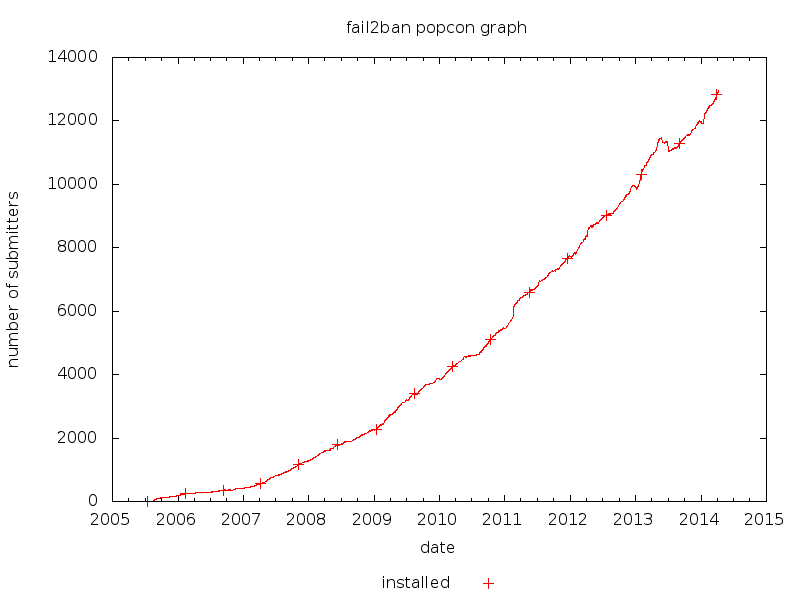
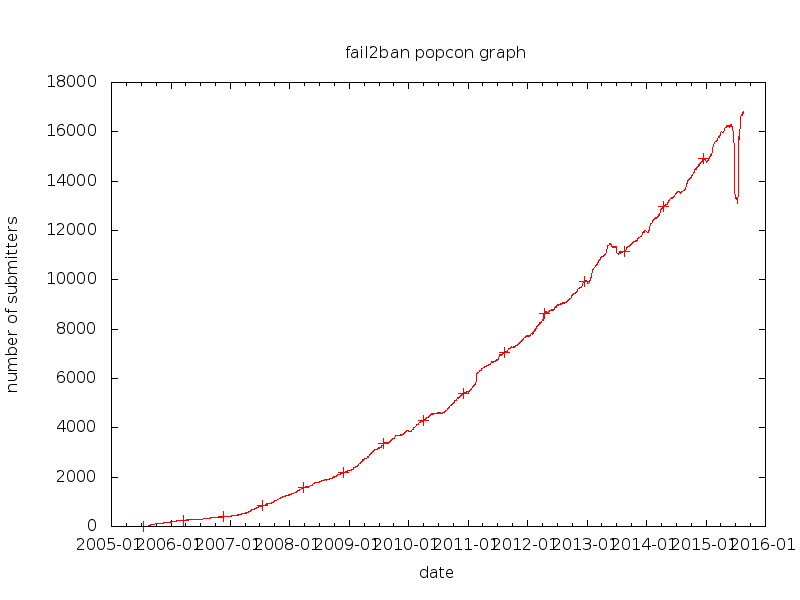
just a minor update with up to date stats

diff --git a/talks/debconf2015/s.tex b/talks/debconf2015/s.tex
@@ -4,7 +4,7 @@
 \usepackage{url}
 \usepackage{hyperref}
 \hypersetup{pdfsubject={Slides of the lightning talk about Fail2Ban
-    given at PyCon 2014},%
+    given at DebConf 2015},%
   pdftitle={Fail2Ban -- keep your boxes skiddie-free},%
   pdfauthor={Yaroslav O. Halchenko},
   pdfkeywords={Fail2Ban, security},%
@@ -25,12 +25,14 @@
 }
 
 \title[Fail2Ban]{Fail2Ban -- keep your boxes skiddie-free}
-\author[yoh AKA Yarik]{Yaroslav O. Halchenko
+\author[yoh AKA Yarik]{Yaroslav O. Halchenko\\
   \href{mailto: yoh@debian.org}{yoh@debian.org}}
-\institute[Dartmouth, (Neuro)Debian]{\href{http://www.dartmouth.edu}{Dartmouth College},
-\href{http://www.debian.org}{Debian Project}
+\institute[Dartmouth, (Neuro)Debian]{
+\href{http://centerforopenneuroscience.org}{Center for Open Neuroscience},
+\href{http://www.dartmouth.edu}{Dartmouth College},\\
+\href{http://www.debian.org}{Debian}/\href{http://neuro.debian.net}{NeuroDebian}
 }
-\date[PyCon 2014]{PyCon 2014, Montreal, Canada}
+\date[DebConf 2015]{DebConf 2015, Heidelberg, Germany}
 
 \urlstyle{same}
 
@@ -54,7 +56,8 @@
 \end{center}
 \end{frame}
 
-\begin{frame}{Who cares?}
+\begin{frame}{Who cares?(\only<1>{use your favorite
+      multiplier}\only<2>{go wild in your guestimate})}
 \begin{center}
 \only<1>{\includegraphics[width=\textwidth]{popcon-abs.png}}
 \only<2>{\includegraphics[width=\textwidth]{popcon-rel.png}}
@@ -132,8 +135,11 @@ Jun 2 16:47:48 i sshd[1]: Failed password for joe from 1.2.3.4 port 59926 ssh2
 \begin{Verbatim}[commandchars=\\\{\},fontsize=\scriptsize]
  --------------------- fail2ban-messages Begin ------------------------
 
- Banned services with Fail2Ban:                          Bans:Unbans
-    ssh:                                                    [  3:3  ]
+ Banned services with Fail2Ban:                          Bans:Unbans:Hits
+   apache-noscript:                                        [  0:0:2  ]
+   exim:                                                   [  1:1:7  ]
+   mybabeler-admin:                                        [  0:0:1  ]
+   sshd:                                                   [ 13:13:111]
 
  ---------------------- fail2ban-messages End -------------------------
 \end{Verbatim}
@@ -149,7 +155,7 @@ Jun 2 16:47:48 i sshd[1]: Failed password for joe from 1.2.3.4 port 59926 ssh2
 
 \begin{frame}[fragile]{1. Filter}
 
-\begin{block}{/etc/fail2ban/filters.d/sshd.conf}
+\begin{block}{/etc/fail2ban/filter.d/sshd.conf}
 {\scriptsize
 \begin{verbatim}
 [INCLUDES]
@@ -163,6 +169,8 @@ failregex = ^%(__prefix_line)s(?:error: PAM: )?[aA]uthentication
             ^%(__prefix_line)s(?:error: PAM: )?User not known to
              the underlying authentication module for .* from <HOST>\s*$
             ...
+
+journalmatch = _SYSTEMD_UNIT=sshd.service + _COMM=sshd
 \end{verbatim}
 }
 \end{block}
@@ -226,23 +234,27 @@ maxretry = 3
 \begin{frame}[fragile]{Filters}
 
 \begin{Verbatim}[fontsize=\scriptsize]
-> ls /etc/fail2ban/filter.d | sed -e 's,\.conf,,g'
-3proxy              dovecot        nginx-http-auth  sendmail-reject
-apache-auth         dropbear       nsd              sieve
-apache-badbots      ejabberd-auth  openwebmail      sogo-auth
-apache-botsearch    exim-common    pam-generic      solid-pop3d
-apache-common       exim-spam      perdition        squid
-apache-modsecurity  exim           php-url-fopen    squirrelmail
-apache-nohome       freeswitch     postfix-sasl     sshd-ddos
-apache-noscript     groupoffice    postfix          sshd
-apache-overflows    gssftpd        proftpd          stunnel
-assp                guacamole      pure-ftpd        suhosin
-asterisk            horde          qmail            tine20
-common              kerio          recidive         uwimap-auth
-counter-strike      lighttpd-auth  roundcube-auth   vsftpd
-courier-auth        mysqld-auth    selinux-common   webmin-auth
-courier-smtp        nagios         selinux-ssh      wuftpd
-cyrus-imap          named-refused  sendmail-auth    xinetd-fail
+> /bin/ls /etc/fail2ban/filter.d | sed -e 's,\.conf,,g' | column
+3proxy               directadmin    named-refused   sendmail-auth
+apache-auth          dovecot        nginx-botsearch sendmail-reject
+apache-badbots       dropbear       nginx-http-auth sieve
+apache-botsearch     drupal-auth    nsd             sogo-auth
+apache-common        ejabberd-auth  openwebmail     solid-pop3d
+apache-fakegooglebot exim-common    oracleims       squid
+apache-modsecurity   exim           pam-generic     squirrelmail
+apache-nohome        exim-spam      perdition       sshd
+apache-noscript      freeswitch     php-url-fopen   sshd-ddos
+apache-overflows     froxlor-auth   portsentry      stunnel
+apache-pass          groupoffice    postfix         suhosin
+apache-shellshock    gssftpd        postfix-rbl     tine20
+assp                 guacamole      postfix-sasl    uwimap-auth
+asterisk             horde          proftpd         vsftpd
+botsearch-common     ignorecommands pure-ftpd       webmin-auth
+common               kerio          qmail           wuftpd
+counter-strike       lighttpd-auth  recidive        xinetd-fail
+courier-auth         monit          roundcube-auth
+courier-smtp         mysqld-auth    selinux-common
+cyrus-imap           nagios         selinux-ssh
 \end{Verbatim}
 \end{frame}
 
@@ -251,31 +263,35 @@ cyrus-imap          named-refused  sendmail-auth    xinetd-fail
 
 \begin{Verbatim}[fontsize=\scriptsize]
 > ls /etc/fail2ban/action.d | sed -e 's,\.conf,,g'
-apf                iptables-ipset-proto4          pf
-badips             iptables-ipset-proto6-allports route
-badips.py          iptables-ipset-proto6          sendmail-buffered
-blocklist_de       iptables-multiport-log         sendmail-common
-bsd-ipfw           iptables-multiport             sendmail-whois-ipjail
-complain           iptables-new                   sendmail-whois-matches
-dshield            iptables-xt_recent-echo        sendmail-whois-lines
-dummy              iptables                       sendmail-whois-matches
-firewallcmd-ipset  mail-buffered                  sendmail-whois
-firewallcmd-new    mail-whois-lines               sendmail
-hostsdeny          mail-whois                     shorewall
-ipfilter           mail                           smtp.py
-ipfw               mynetwatchman                  ufw
-iptables-allports  osx-afctl                      xarf-login-attack
-iptables-blocktype osx-ipfw
+apf                   iptables                       route
+badips                iptables-ipset-proto4          sendmail-buffered
+badips.py             iptables-ipset-proto6-allports sendmail-common
+blocklist_de          iptables-ipset-proto6          sendmail
+bsd-ipfw              iptables-multiport             sendmail-geoip-lines
+cloudflare            iptables-multiport-log         sendmail-whois
+complain              iptables-new                   sendmail-whois-ipjailmatches
+dshield               iptables-xt_recent-echo        sendmail-whois-ipmatches
+dummy                 mail-buffered                  sendmail-whois-lines
+firewallcmd-allports  mail                           sendmail-whois-matches
+firewallcmd-ipset     mail-whois-common              shorewall
+firewallcmd-multiport mail-whois                     shorewall-ipset-proto6
+firewallcmd-new       mail-whois-lines               smtp.py
+hostsdeny             mynetwatchman                  symbiosis-blacklist-allports
+ipfilter              nsupdate                       ufw
+ipfw                  osx-afctl                      xarf-login-attack
+iptables-allports     osx-ipfw
+iptables-common       pf
 \end{Verbatim}
 \end{frame}
 
-\begin{frame}{Selected new features of 0.9.0}
+\begin{frame}{Selected new features of 0.9.x ($>=$ stretch)}
 \begin{itemize}
 \item \emph{Cleaner} \texttt{jail.conf}
 \item \texttt{systemd} journal support
 \item Python3 support
 \item Multiline \texttt{failregex}
 \item \texttt{timeout} option for actions
+\item \texttt{pass2allow} jail for ``knocking'' style of operation
 \item ... much more (no IPv6 just yet) ...
 \end{itemize}
 \end{frame}
@@ -289,12 +305,13 @@ iptables-blocktype osx-ipfw
     \item If needed -- there is support:
       \begin{itemize}
       \item \texttt{reportbug fail2ban}
+      \item \url{http://www.fail2ban.org/wiki/index.php/HOWTO_Seek_Help}
       \item fail2ban-users mailing list @ SF
       \item IRC \#fail2ban @ FreeNode \pause
       \end{itemize}
     \item \alert{Don't just blog -- \textbf{Contribute!}}
     \item Wiki: \href{http://www.fail2ban.org}{www.fail2ban.org}
-    \item Code: clone/send pull requests
+    \item Code: clone/send pull requests/review outstanding PRs
       \href{http://github.com/fail2ban/fail2ban/pulls}{github.com/fail2ban/fail2ban}
       \begin{itemize}
       \item Fixes
@@ -322,21 +339,21 @@ iptables-blocktype osx-ipfw
 
 \begin{Verbatim}[commandchars=\\\{\},fontsize=\small]
 > git shortlog -sn origin/master | nl
-     1	   852	Daniel Black        # 2012 --
-     2	   574	\textbf{Cyril Jaquier}       # 2004 -- 2009
-     3	   554	\alert{Yaroslav Halchenko}  # 2005 --
-     4	   398	Steven Hiscocks     # 2013 --
-     5	    20	Lee Clemens         # 2012 --
-     6	    14	Ivo Truxa           # 2013 --
-     7	    12	Arturo 'Buanzo' Busleiman # 2009 --
-     8	    12	Orion Poplawski     # 2013 --
+  1   854  Daniel Black       # 2012 -- 2014
+  2   797  Yaroslav Halchenko # 2005 --
+  3   574  \textbf{Cyril Jaquier}      # 2004 -- 2009
+  4   440  Steven Hiscocks    # 2013 --
+  5   118  Lee Clemens        # 2012 --
+  6    59  sebres             # 2013 --
+  7    23  Viktor Szépe       # 2014 --
+  8    22  Orion Poplawski    # 2013 --
 ...
-    61	     1	Lukasz
+103     1  Lukasz
 
      \alert{STILL VERY EASY TO MAKE FIRST TOP 10!!!}
 
 > wc -l THANKS
-108 THANKS             # subtract 8 for the header ;)
+127 THANKS             # subtract 8 for the header ;)
 \end{Verbatim}
 \end{frame}
 
